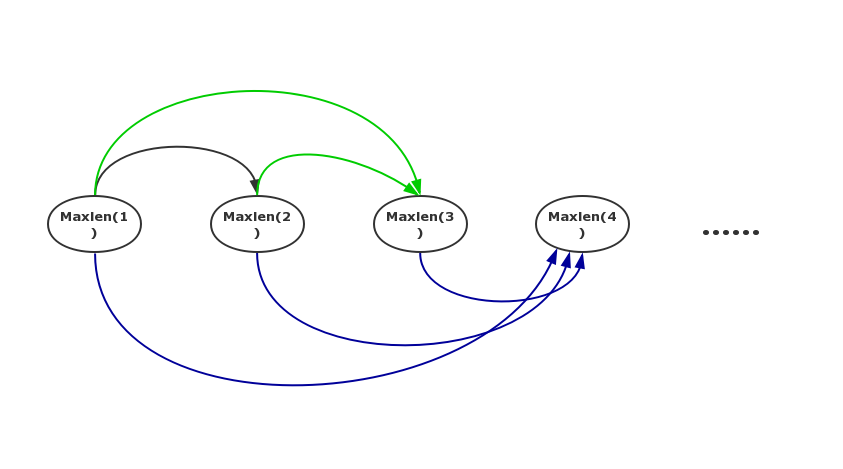
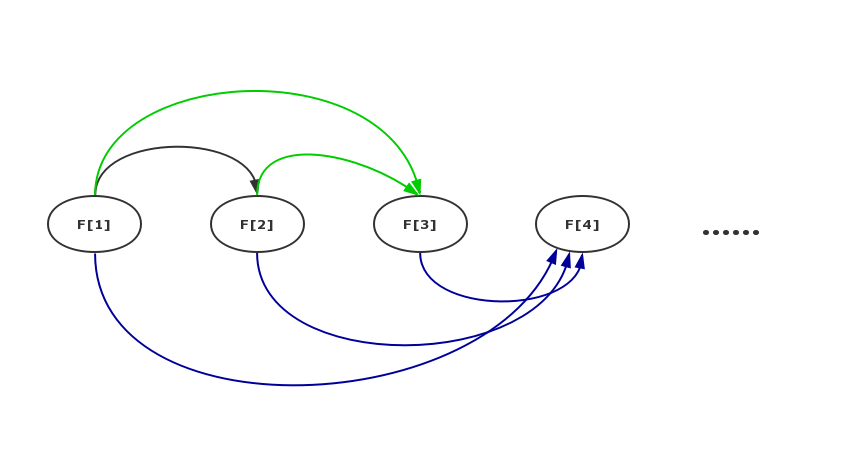
update 2018-05-10 16:57

diff --git a/动态规划/LIS最长不下降子序列.md b/动态规划/LIS最长不下降子序列.md
@@ -4,12 +4,14 @@
 最长上升子序列（Longest Increasing Subsequence，LIS），在计算机科学上是指一个序列中最长的单调递增的子序列。
 
 
-## 问题描述
+## 求最大的LIS的长度
+
+### 问题描述
 
 一个数的序列$$b_i$$，当$$b_1 < b_2 < ... < b_n$$的时候，我们称这个序列是上升的(不下降)。对于给定的一个序列$$a_1, a_2,...a_n$$，我们可以得到一些上升的子序列$$a_{i1}, a_{i2},..., a_{ik}$$，这里$$1 <= i1 < i2 < ... < ik <= n$$。比如，对于序列$$(1, 7, 3, 5, 9, 4, 8)$$，有它的一些上升子序列，如$$(1, 7)$$,$$(3, 4, 8)$$等等。这些子序列中最长的长度是4，比如子序列$$(1, 3, 5, 8)$$.
 你的任务，就是对于给定的序列，求出**最长上升(不下降)子序列的长度**。
 
-## 输入样例
+### 输入样例
 
 
 ```
@@ -17,37 +19,46 @@
 3 4 1 2 3 6
 ```
 
-## 输出样例
+### 输出样例
 
 ```
 4
 ```
 
-## 解题思路
+### 样例解释
 
+`(1 2 3 6)`为最长的上升子序列
 
-如何把这个问题分解成子问题呢？经过分析，发现 **求以$$a_k(k=1, 2, 3,...N)$$为终点的最长上升子序列的长度**是个好的子问题――这里把一个上升子序列中最右边的那个数，称为该子序列的“终点”。虽然这个子问题和原问题形式上并不完全一样，但是只要这N个子问题都解决了，那么这N个子问题的解中，最大的那个就是整个问题的解。
+### 解题思路
 
-由上所述的子问题只和一个变量相关，就是数字的位置。因此序列中数的位置k 就是“状态”，而状态 k 对应的“值”，就是以$$a_k$$做为“终点”的最长上升子序列的长度。这个问题的状态一共有N个。状态定义出来后，转移方程就不难想了。假定$$MaxLen(k)$$表示以$$a_k$$做为“终点”的最长上升子序列的长度，那么：
+这个问题的是:**求序列的最长序列的长度**
 
+如何把这个问题分解成子问题呢？经过分析，发现:**求以$$a_k(k=1, 2, 3,...N)$$为终点的最长上升子序列的长度**是个好的子问题.
 
-**边界,或者说刚开始时,初始化时:**
+这里把一个上升子序列中最右边的那个数，称为该子序列的“终点”。虽然这个子问题和原问题形式上并不完全一样，但是只要这N个子问题都解决了，那么这N个子问题的解中，最大的那个就是整个问题的解。
 
-$$MaxLen(i) = 1$$
-
-可以这样理解:刚开始时,以下标i为结尾的LIS就是下标i自己本身,所以长度为1.
+由上所述的子问题只和一个变量相关，就是数字的位置。因此序列中数的位置k 就是“状态”，而状态 k 对应的“值”，就是以$$a_k$$做为“终点”的最长上升子序列的长度。这个问题的状态一共有N个。状态定义出来后，转移方程就不难想了。假定$$F(k)$$表示以$$a_k$$做为“终点”的最长上升子序列的长度，那么：
 
 **状态转移方程:**
 
 ```math
-Maxlen[k] = Max\{Maxlen[i]+1\},1\leqslant i&lt; k,a[i]&lt;a[k],k&gt; 1
+F[k] = Max\{F[i]+1\},1\leqslant i&lt; k,a[i]&lt;a[k],k&gt; 1
 ```
 
-这个状态转移方程的意思就是，$$MaxLen(k)$$的值，就是在$$a_k$$左边，“终点”数值小于$$a_k$$，且长度最大的那个上升子序列的长度再加1。因为$$a_k$$左边任何“终点”小于$$a_k$$的子序列，加上$$a_k$$后就能形成一个更长的上升子序列。
-
-实际实现的时候，可以不必编写递归函数，因为从$$MaxLen(1)$$就能推算出$$MaxLen(2)$$，有了$$MaxLen(1)$$和$$MaxLen(2)$$就能推算出$$MaxLen(3)$$,后面同同理.
+这个状态转移方程的意思就是，$$F(k)$$的值，就是在$$a_k$$左边，“终点”数值小于$$a_k$$，且长度最大的那个上升子序列的长度再加1。因为$$a_k$$左边任何“终点”小于$$a_k$$的子序列，加上$$a_k$$后就能形成一个更长的上升子序列。
 
 ![1](./lis1.png)
+
+**边界,或者说刚开始时,初始化时:**
+
+$$F(i) = 1$$
+
+可以这样理解:刚开始时,以下标i为结尾的LIS就是下标i自己本身,所以长度为1.
+
+
+
+实际实现的时候，可以不必编写递归函数，因为从$$F(1)$$就能推算出$$F(2)$$，有了$$F(1)$$和$$F(2)$$就能推算出$$F(3)$$,后面同同理.
+
 
 
 ### 代码如下
@@ -86,14 +97,79 @@ int main(){
 }
 ```
 
-## 输出路径
+## 输出字典序最小的LIS
 
-现在问题加上一个条件:输出lis,如果有多个lis满足条件，那么我们想求字典序最小的那个。
-
-
-## n*log(n)的优化
+现在问题加上一个条件:输出最大lis,如果有多个lis满足条件，那么我们想求字典序最小的那个。如序列`(1 7 5 2)`最长的LIS有两个`(1 7 2)`和`(1 5 2)`,应该输出`1 5 2`
 
 
+### 思路
+
+在有同样长度的LIS的情况下如何保证输出**字典序最小**的LIS?
+
+**我们只要保证每次转移的时候选接在最小的那个值后面即可!**
+
+如对于`1 7 5 2`来说,`a[2]=7,a[3]=5`,`f[2]=2,f[5]=5`,最后一个数字`2`接在`7`或`5`后面都行,但我们选较小的`5`
+
+注意情况二:序列`(1 2 5 6 3)`,有两个最长的LIS,这个时候我们要选一个末尾数字最小的LIS.
+
+### 代码
+
+```c
+#include <cstdio>
+
+int a[1000];
+int n;
+int f[1000];
+int path[1000];//path[i]=j表示 a[i]接在a[j]后面
+int _path[1000];
+
+int main(){
+    scanf("%d",&n);
+    int i;
+    int j;
+    for (i=1;i<=n;i++){
+        scanf("%d",&a[i]);
+
+    }
+
+    for(i=1;i<=n;i++) f[i] =1,path[i]=-1; //初始化
+
+    int max = -1;//存最大LIS的长度
+    int max_idx; //存最长的LIS的最后一位的下标
+    for (i=2;i<=n;i++){
+        for(j=1;j<i;j++){
+            if( a[j] < a[i] && f[i] < f[j]+1){
+                f[i] = f[j]+1;
+                if(max < f[i]){
+                    max = f[i];
+                    path[i] = j; //a[i]接在a[j]后面
+                    max_idx=i; //最后一个下标变为i
+                }
+                else if(max == f[i] && a[max_idx] > a[i]){ 
+                        //max和当前的lis长度一样
+                        //上一个最大lis的结尾的值比现在大
+                        max_idx = i;
+                }
+            }
+        }
+    }
+    
+    printf("%d\n",max); //输出最大值
+    //输出路径
+    int cnt = 1;
+
+    for(i=max_idx;i!=-1;i=path[i]){
+        _path[cnt++] = a[i];
+    }
+    for(i=cnt-1;i>=1;i--)
+        printf("%d ",_path[i]);
+
+    return 0;
+}
+```
+
+
+## n*log(n)的优化--利用用二分查找
 
 
 
@@ -149,3 +225,12 @@ int LIS(){
     return f[n];
 }
 ```
+
+## 练习题目
+
+ - [P1020 导弹拦截](https://www.luogu.org/problemnew/show/P1020)
+ - [P1091 合唱队形](https://www.luogu.org/problemnew/show/P1091)
+ - [uscao 4.3 buy low but lower](https://www.luogu.org/problemnew/show/P2687)
+ - [友好城市](https://www.luogu.org/problemnew/show/P2782)
+ - [P2215 HAOI2007上升序列](https://www.luogu.org/problemnew/show/P2215)
+ - [P2501 HAOI2006数字序列](https://www.luogu.org/problemnew/show/P2501)

diff --git a/排序算法/题目.md b/排序算法/题目.md
@@ -9,3 +9,6 @@
 ## NOIP2007统计数字
 
 ## 列队
+
+
+- [瑞士轮]
